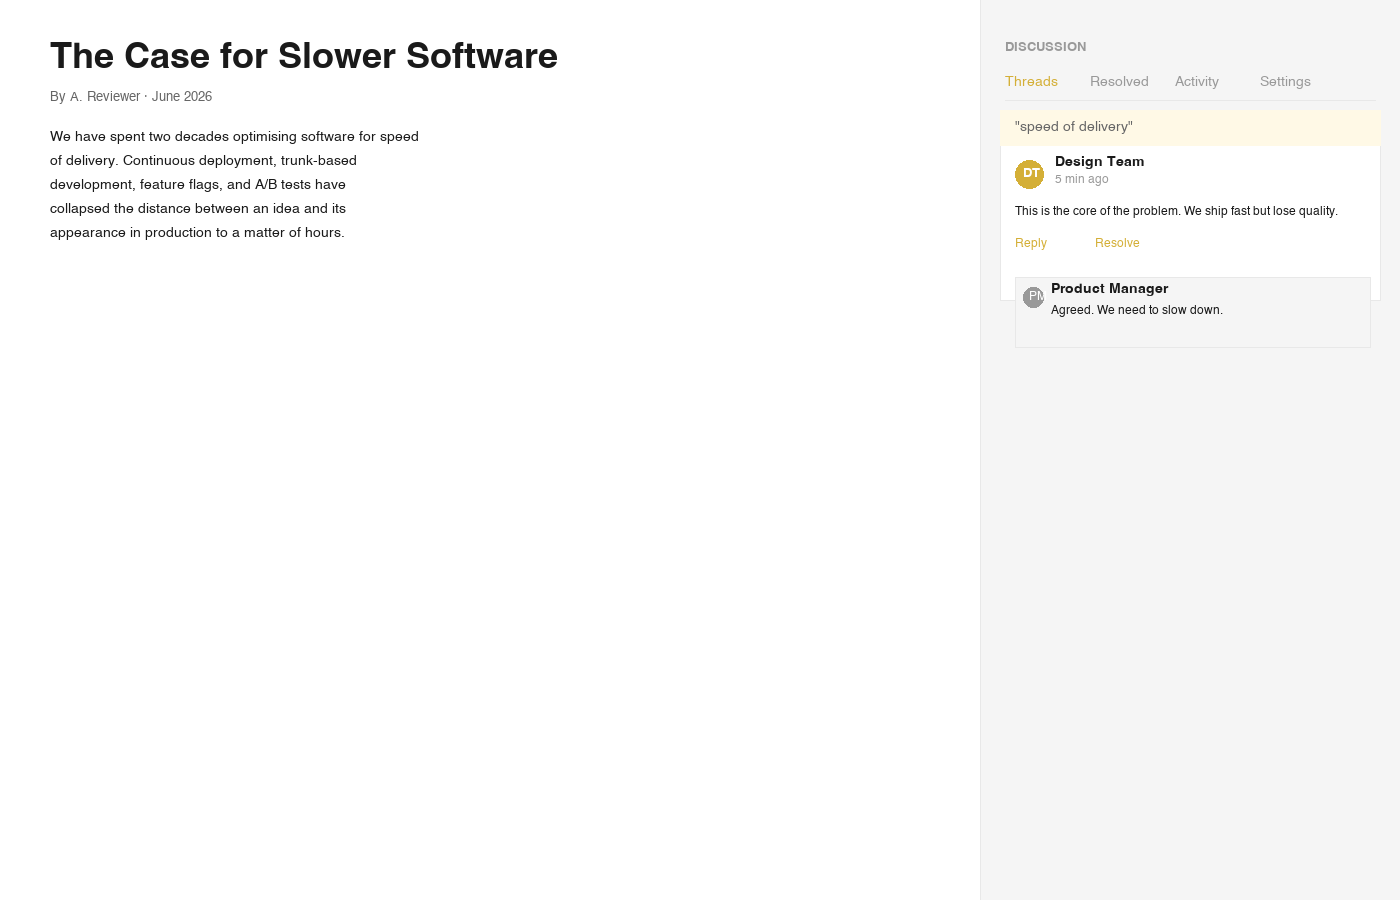
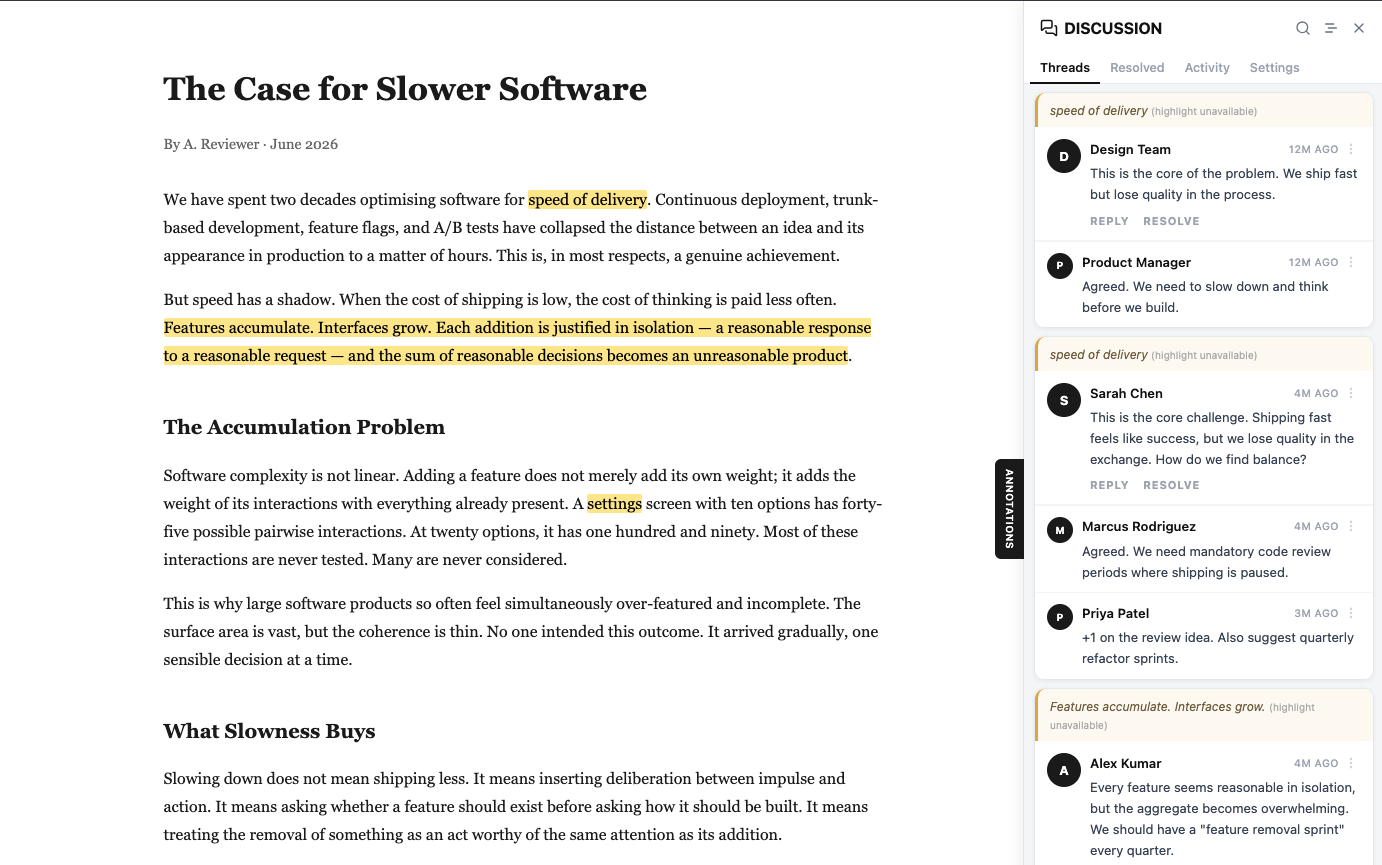
add docs/screenshot.png

diff --git a/README.md b/README.md
@@ -4,6 +4,8 @@ Lightweight inline annotation and threaded comments for any web page — added v
 
 ![Demo screenshot showing highlighted text and comment sidebar](docs/screenshot.png)
 
+---
+
 ## Features
 
 - **Select any text** → floating button → add a comment